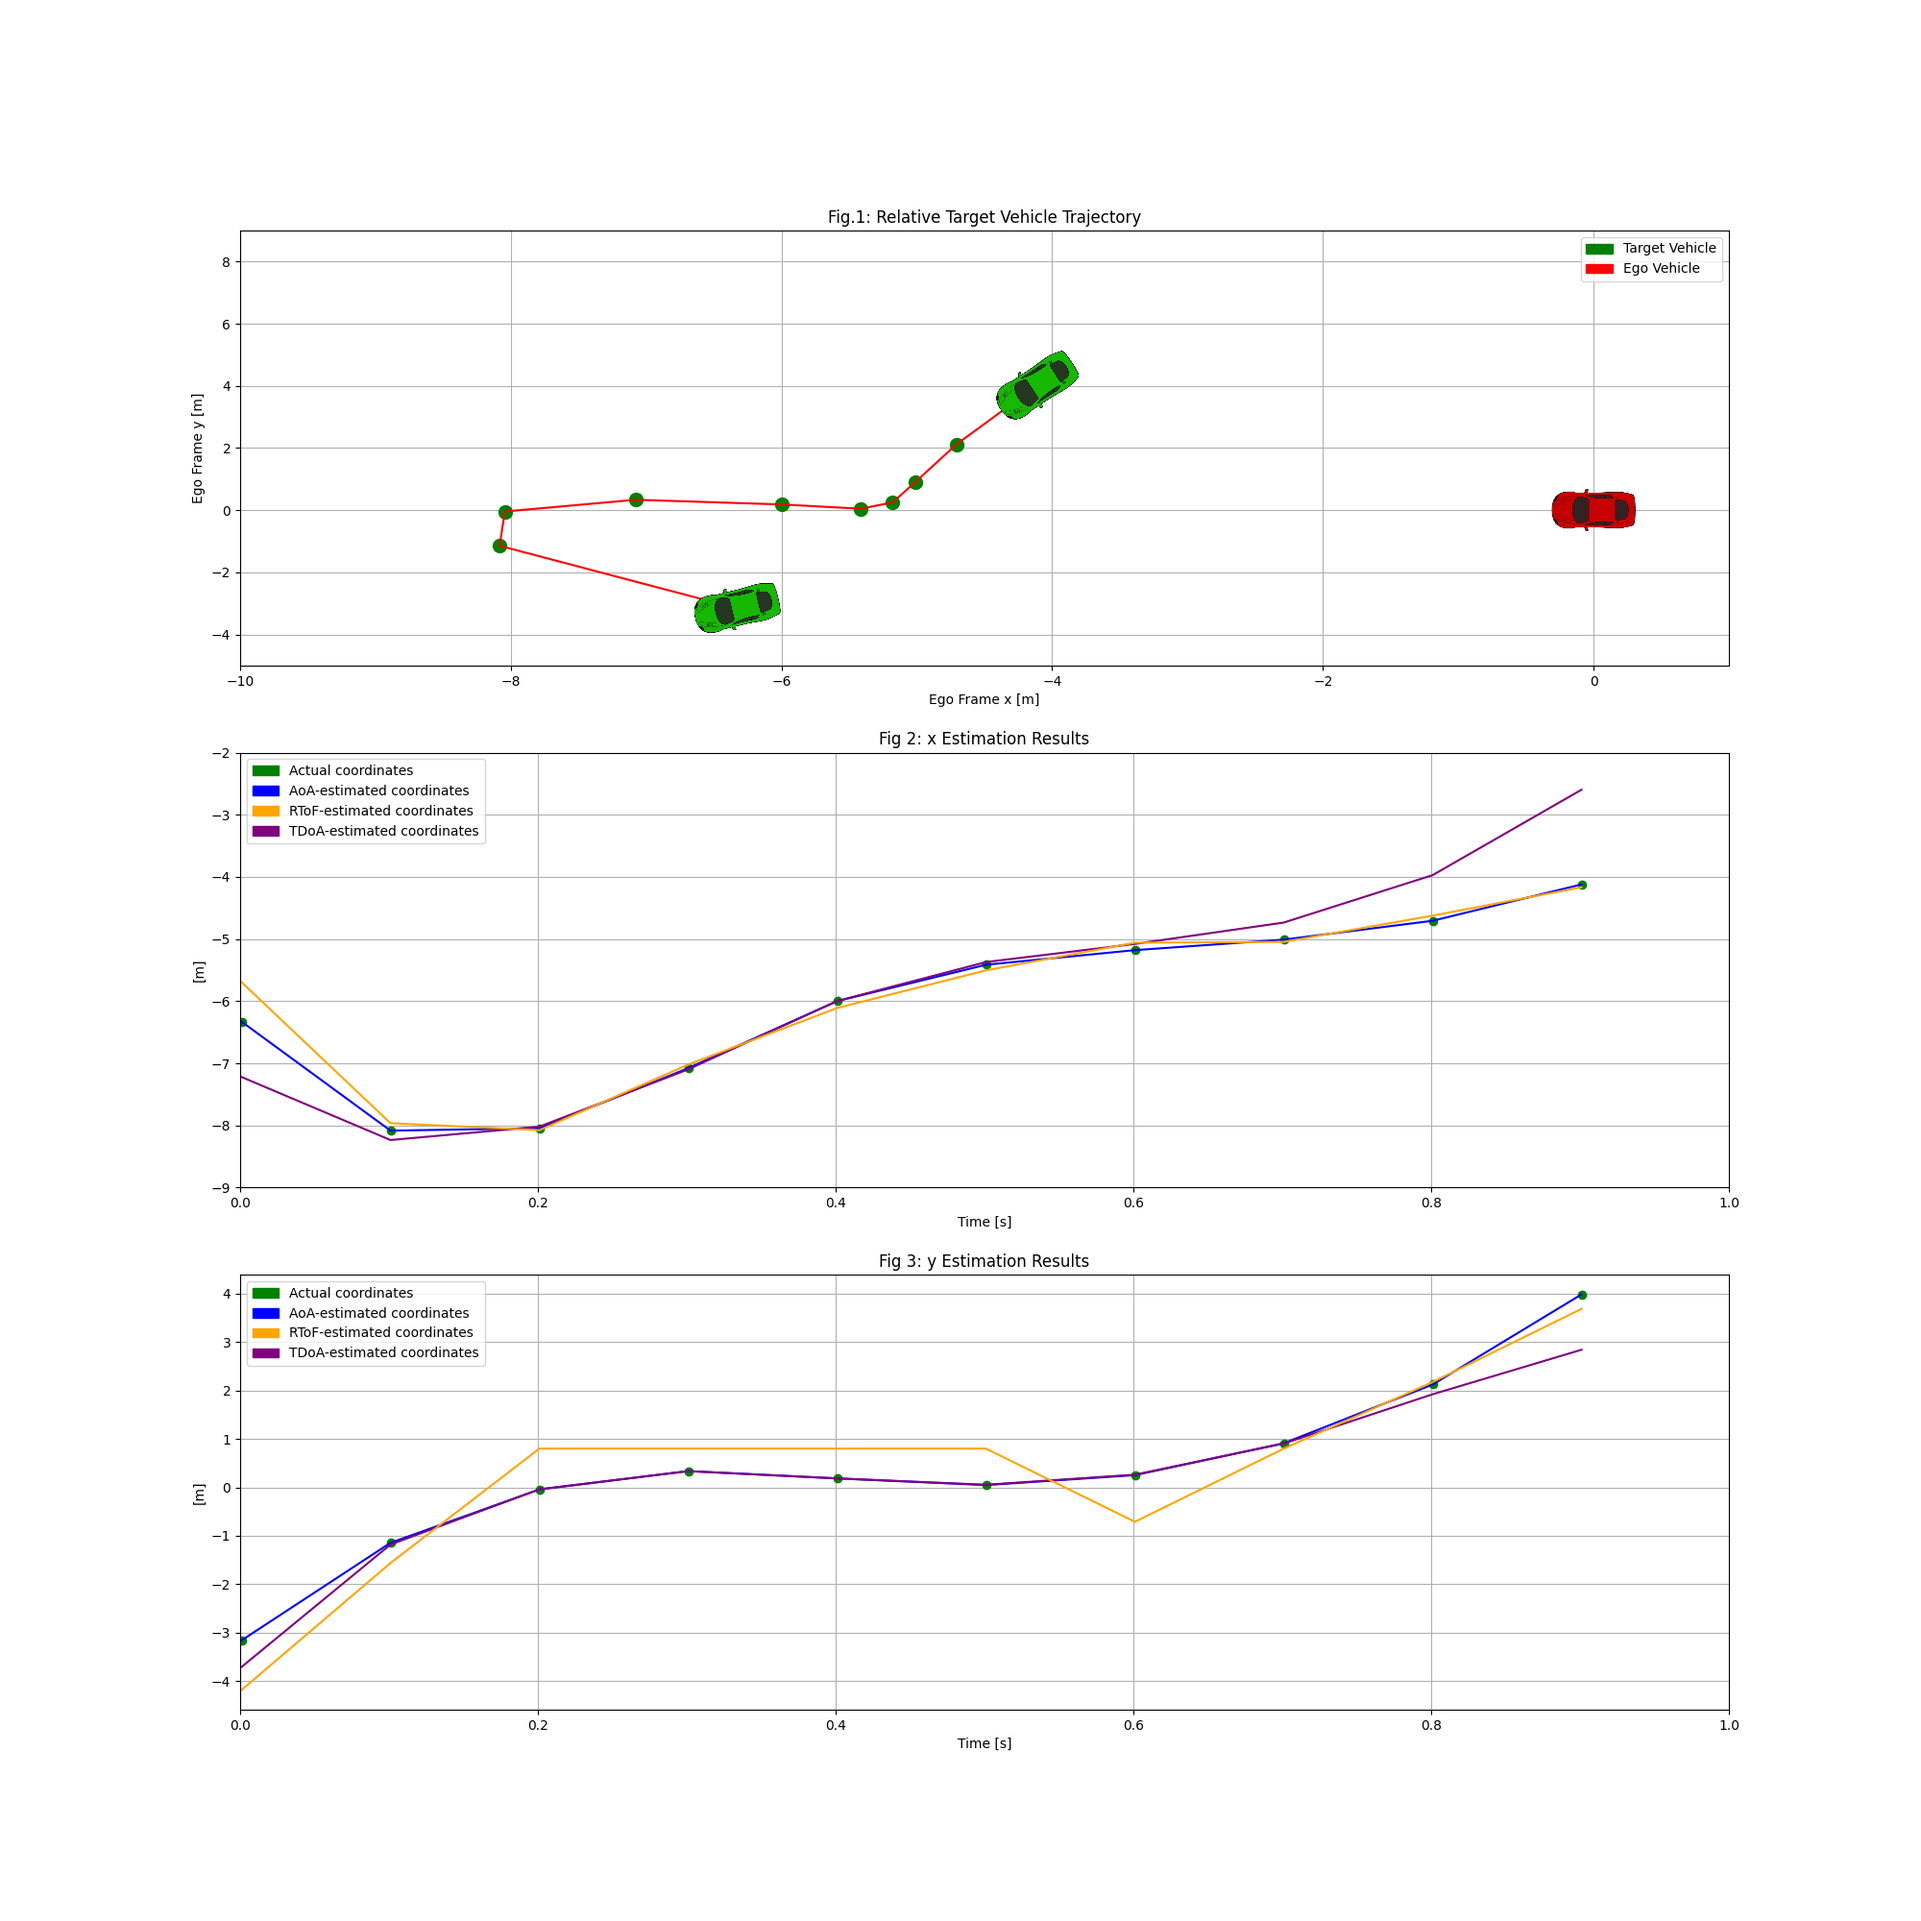
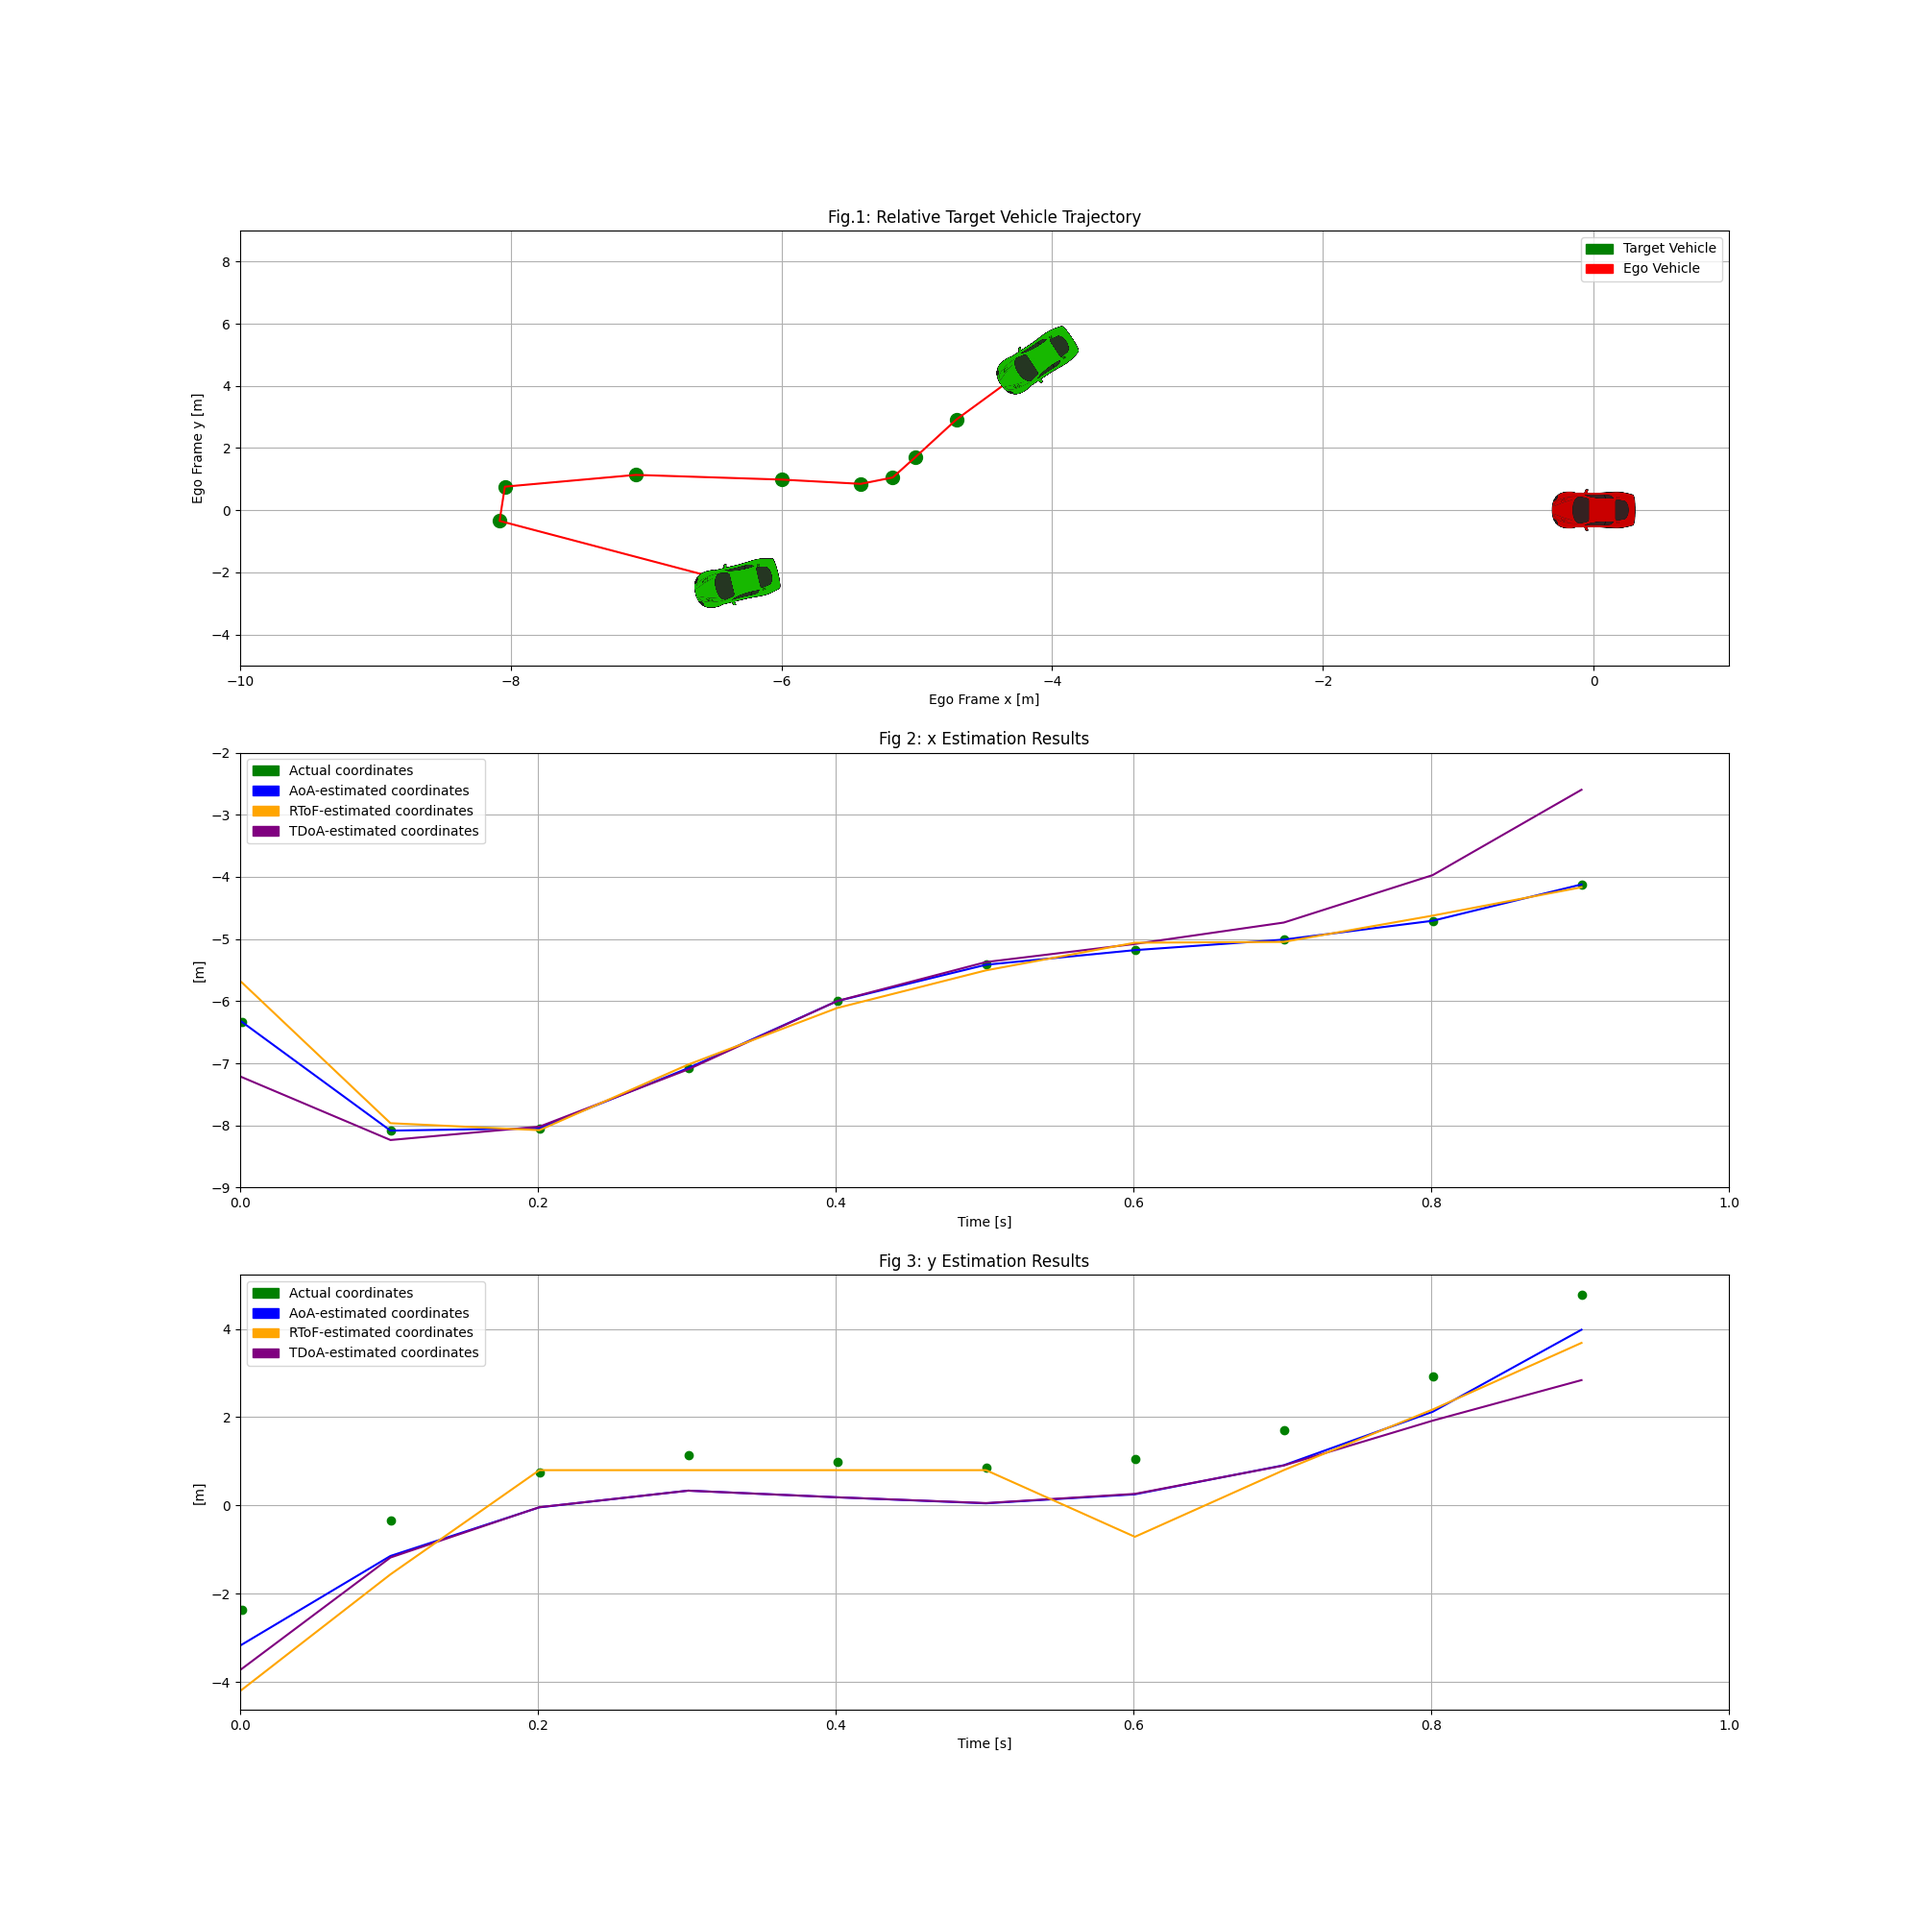
finalized relative coordinates

diff --git a/Bound_Estimation/matfile_read.py b/Bound_Estimation/matfile_read.py
@@ -70,24 +70,23 @@ def rec_func(data, n):
         if isinstance(data[k], dict):
             rec_func(data[k], n + 1)
 
-#data = load_mat('SimulationData/v2lcRun_sm3_comparisonSoA.mat')
+data = load_mat('../SimulationData/v2lcRun_sm3_comparisonSoA.mat')
 #data = load_mat('VLP_methods/aoa_transfer_function.mat')
-#rec_func(data, 0)
+rec_func(data, 0)
 #print(data['breaks'])
 #print(data['coefs'])
 #print('ego vehicle front x: ',data['vehicle']['ego']['front_center']['x'][0], ' y:',data['vehicle']['ego']['front_center']['y'][0])
-#print('ego vehicle qrx1 x:', data['vehicle']['ego']['tx4_qrx1']['x'][0], ' y:', data['vehicle']['ego']['tx4_qrx1']['y'][0])
-#print('ego vehicle qrx2 x:', data['vehicle']['ego']['tx3_qrx2']['x'][0], ' y:', data['vehicle']['ego']['tx3_qrx2']['y'][0])
+print('ego vehicle qrx1 x:', data['vehicle']['ego']['tx4_qrx1']['x'][0], ' y:', data['vehicle']['ego']['tx4_qrx1']['y'][0])
+print('ego vehicle qrx2 x:', data['vehicle']['ego']['tx3_qrx2']['x'][0], ' y:', data['vehicle']['ego']['tx3_qrx2']['y'][0])
 
-#print('target vehicle rear x:', data['vehicle']['target']['rear_center']['x'][0], ' y:', data['vehicle']['target']['rear_center']['y'][0])
-#print('target vehicle relative rear x:', data['vehicle']['target_relative']['rear_center']['x'][0], 'y:',data['vehicle']['target_relative']['rear_center']['y'][0])
 
-#print('target vehicle tx1 x:', data['vehicle']['target']['tx1_qrx4']['x'][0], ' y:', data['vehicle']['target']['tx1_qrx4']['y'][0])
-#print('target vehicle relative tx1 x:', data['vehicle']['target_relative']['tx1_qrx4']['x'][0], 'y:',data['vehicle']['target_relative']['tx1_qrx4']['y'][0])
+print('target vehicle tx1 x:', data['vehicle']['target']['tx1_qrx4']['x'][0], ' y:', data['vehicle']['target']['tx1_qrx4']['y'][0])
+print('target vehicle relative tx1 x:', data['vehicle']['target_relative']['tx1_qrx4']['x'][0], 'y:',data['vehicle']['target_relative']['tx1_qrx4']['y'][0])
 
-#print('target vehicle tx2 x:',data['vehicle']['target']['tx2_qrx3']['x'][0], 'y:',data['vehicle']['target']['tx2_qrx3']['y'][0])
-#print('target vehicle relative tx2 x:',data['vehicle']['target_relative']['tx2_qrx3']['x'][0] , 'y:' , data['vehicle']['target_relative']['tx2_qrx3']['y'][0] )
-
+print('target vehicle tx2 x:',data['vehicle']['target']['tx2_qrx3']['x'][0], 'y:',data['vehicle']['target']['tx2_qrx3']['y'][0])
+print('target vehicle relative tx2 x:',data['vehicle']['target_relative']['tx2_qrx3']['x'][0] , 'y:' , data['vehicle']['target_relative']['tx2_qrx3']['y'][0] )
+print(data['vehicle']['target']['tx2_qrx3']['x'][0]-data['vehicle']['ego']['tx4_qrx1']['x'][0])
+print(data['vehicle']['target']['tx2_qrx3']['y'][0]-data['vehicle']['ego']['tx4_qrx1']['y'][0])
 
 #print('ego vehicle front x: ',data['vehicle']['ego']['front_center']['x'][0], ' y:',data['vehicle']['ego']['front_center']['y'][1])
 #print('ego vehicle qrx1 x:', data['vehicle']['ego']['tx4_qrx1']['x'][0], ' y:', data['vehicle']['ego']['tx4_qrx1']['y'][1])

diff --git a/generate_simulation_data.py b/generate_simulation_data.py
@@ -62,14 +62,14 @@ for i in range(len(data_names)):
     L_ego = data['vehicle']['ego']['width']
 
     tgt_tx1_x = -1 * data['vehicle']['target_relative']['tx1_qrx4']['y'][::dp]
-    tgt_tx1_y = data['vehicle']['target_relative']['tx1_qrx4']['x'][::dp] #+ L_ego / 2
+    tgt_tx1_y = data['vehicle']['target_relative']['tx1_qrx4']['x'][::dp]
     tgt_tx2_x = -1 * data['vehicle']['target_relative']['tx2_qrx3']['y'][::dp]
-    tgt_tx2_y = data['vehicle']['target_relative']['tx2_qrx3']['x'][::dp] #+ L_ego / 2
+    tgt_tx2_y = data['vehicle']['target_relative']['tx2_qrx3']['x'][::dp]
 
     ego_qrx1_x = np.zeros(len(tgt_tx1_x))
-    ego_qrx1_y = np.zeros(len(tgt_tx1_x))  - L_ego / 2
+    ego_qrx1_y = np.zeros(len(tgt_tx1_x))
     ego_qrx2_x = np.zeros(len(tgt_tx1_x))
-    ego_qrx2_y = np.zeros(len(tgt_tx1_x)) + L_ego  / 2
+    ego_qrx2_y = np.zeros(len(tgt_tx1_x)) + L_ego
 
     # delay parameters
     delay_11 = data['channel']['qrx1']['delay']['tx1'][::dp]
@@ -135,7 +135,7 @@ for i in range(len(data_names)):
         noise_var4 = p_r4 * p_r_factor + remaining_factor
         noise_variance = np.array([[noise_var1, noise_var2], [noise_var3, noise_var4]])
 
-        noise_variance = np.array([[0.0, 0.0], [0.0, 0.0]])
+        # noise_variance = np.array([[0.0, 0.0], [0.0, 0.0]])
         rem_fact_soner = I_bg * i_bg_factor + T * (t_factor1 + t_factor2 / 16)
         noise_var1_soner = np.array([H_q[0][0][0] * p_r_factor + rem_fact_soner, H_q[0][0][1] * p_r_factor + rem_fact_soner,
                                H_q[0][0][2] * p_r_factor + rem_fact_soner, H_q[0][0][3] * p_r_factor + rem_fact_soner])
@@ -146,7 +146,7 @@ for i in range(len(data_names)):
         noise_var4_soner = np.array([H_q[1][1][0] * p_r_factor + rem_fact_soner, H_q[1][1][1] * p_r_factor + rem_fact_soner,
                                H_q[1][1][2] * p_r_factor + rem_fact_soner, H_q[1][1][3] * p_r_factor + rem_fact_soner])
         noise_variance_soner = np.array([[noise_var1_soner, noise_var2_soner], [noise_var3_soner, noise_var4_soner]])
-        noise_variance_soner = np.array([[[0.0,0.0,0.0,0.0], [0.0,0.0,0.0,0.0]], [[0.0,0.0,0.0,0.0], [0.0,0.0,0.0,0.0]]])
+        # noise_variance_soner = np.array([[[0.0,0.0,0.0,0.0], [0.0,0.0,0.0,0.0]], [[0.0,0.0,0.0,0.0], [0.0,0.0,0.0,0.0]]])
         #print("delays", delays)
         #print("H", H)
         #print("noise", noise_variance)
@@ -162,9 +162,9 @@ for i in range(len(data_names)):
         x_pose[i] = tx_aoa[0]
         y_pose[i] = tx_aoa[1]
         x_becha[i] = tx_rtof[0]
-        y_becha[i] = tx_rtof[1]  # - L_ego / 2
+        y_becha[i] = tx_rtof[1]
         x_roberts[i] = tx_tdoa[0]
-        y_roberts[i] = tx_tdoa[1] #  - L_ego / 2
+        y_roberts[i] = tx_tdoa[1]
     ## In[2]:
     y_data = np.copy(y)
     x_data = np.copy(x)
